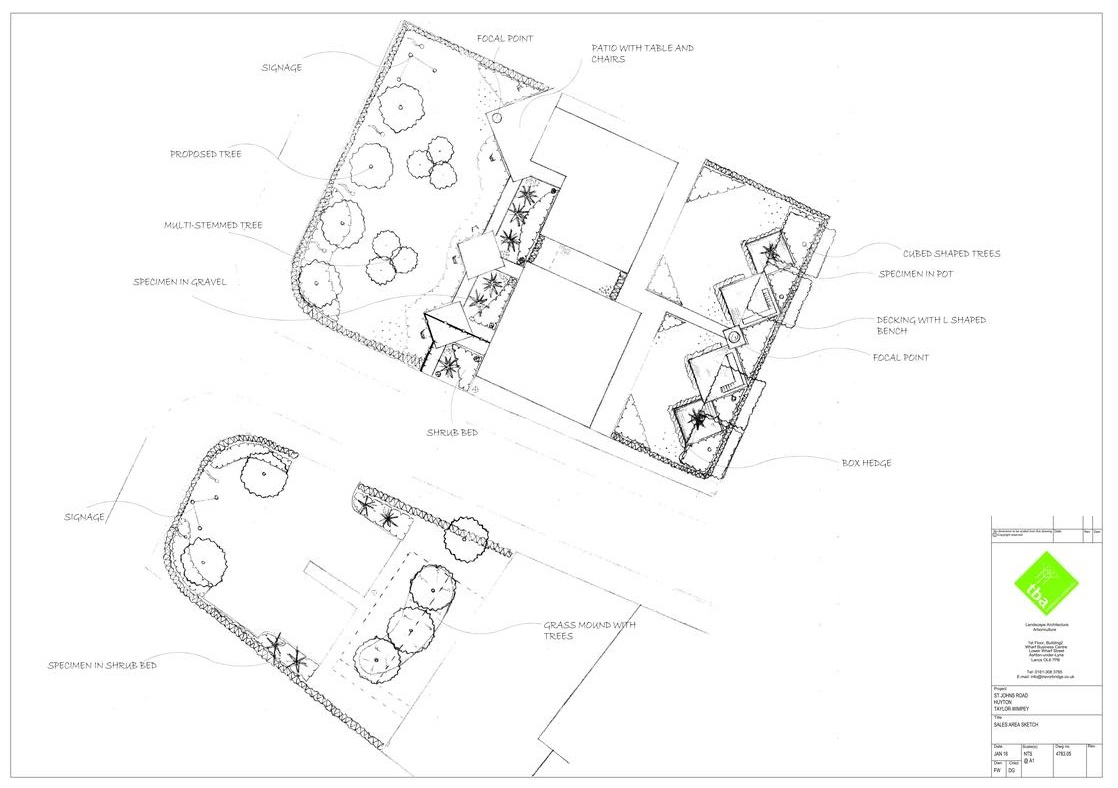
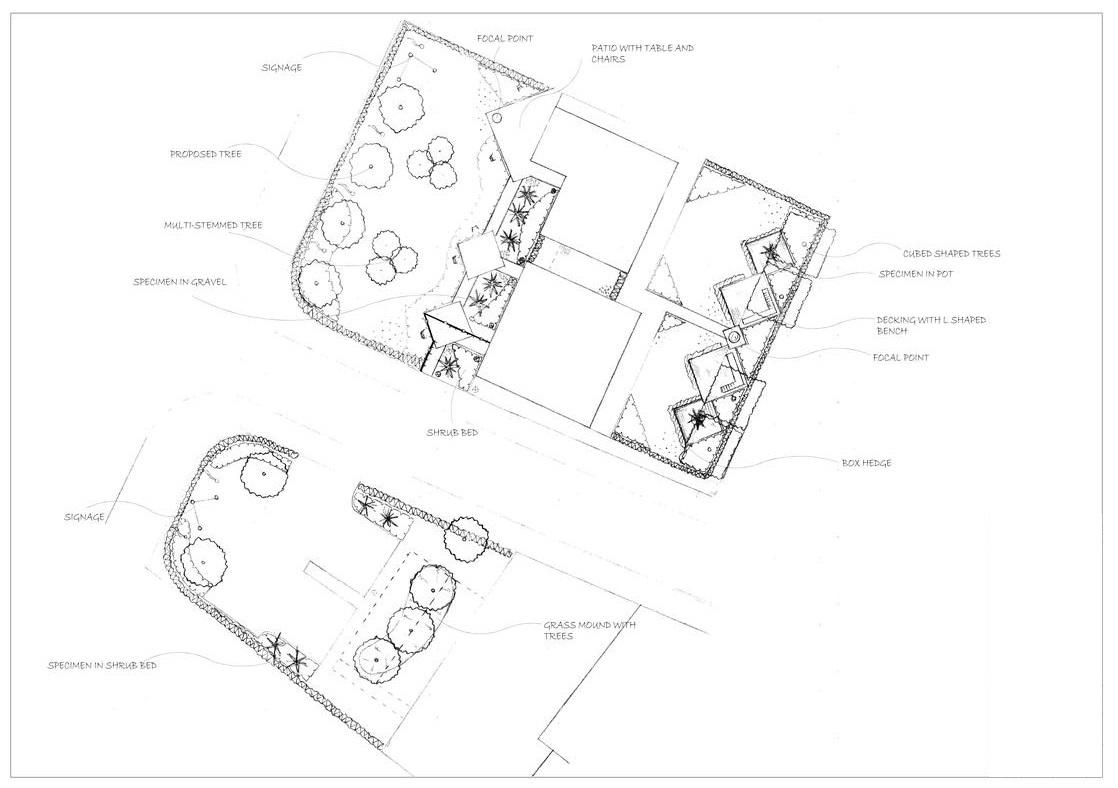
edited out sensitive imnformation contained within the professiona  pictures and started to change place holder names to actual project names

Changed region(s): [[0.8819, 0.6701, 1.0, 1.0]]

diff --git a/professional.html b/professional.html
@@ -32,13 +32,13 @@
     <div class="container clearfix">
         <h1>Professional Work</h1>
         <ul class="portfolio-nav">
-            <li><a href=professional.html>Section Twelve Project </a></li>
+            <li><a href=professional.html>Cardiff Student Residential Scheme</a></li>
             <li><a href=professional1.html> Vivid Dreams</a></li>
             <li><a href="professional2.html"> A.D.B Ltd </a></li>
             <li><a href="professional3.html">Innovate .co </a></li>
         </ul>
         <div class="portfolio-work">
-            <h2>Section Twelve Project</h2>
+            <h2>Cardiff Student Residential Scheme</h2>
             <img class="portfolio one" src="img/example1-1.jpg">
             <img class="portfolio two" src="img/example1-2.jpg">
             <img class="portfolio three" src="img/example1-3.jpg">
